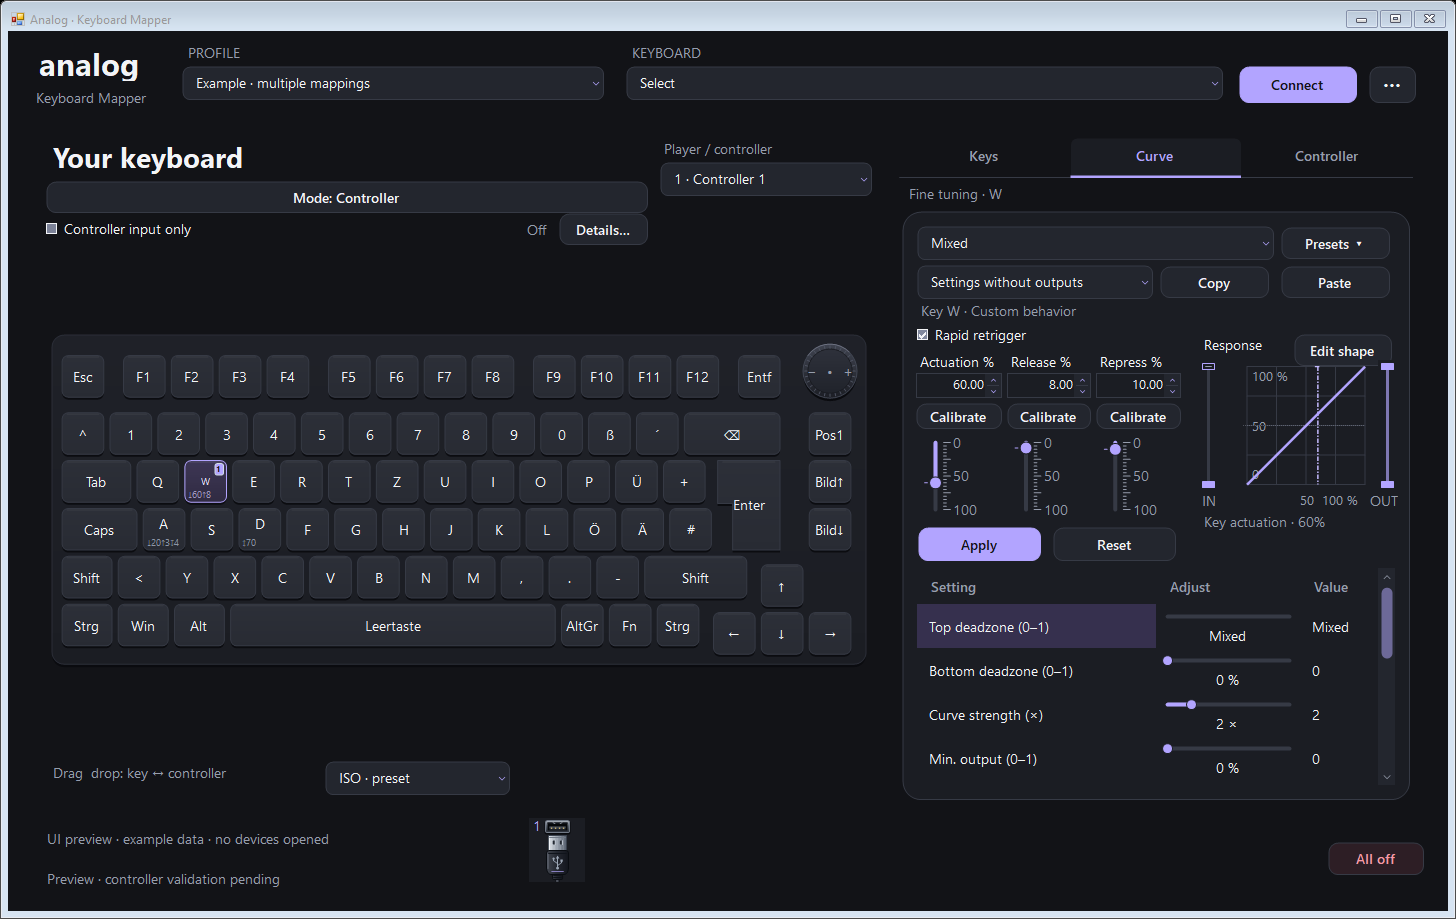
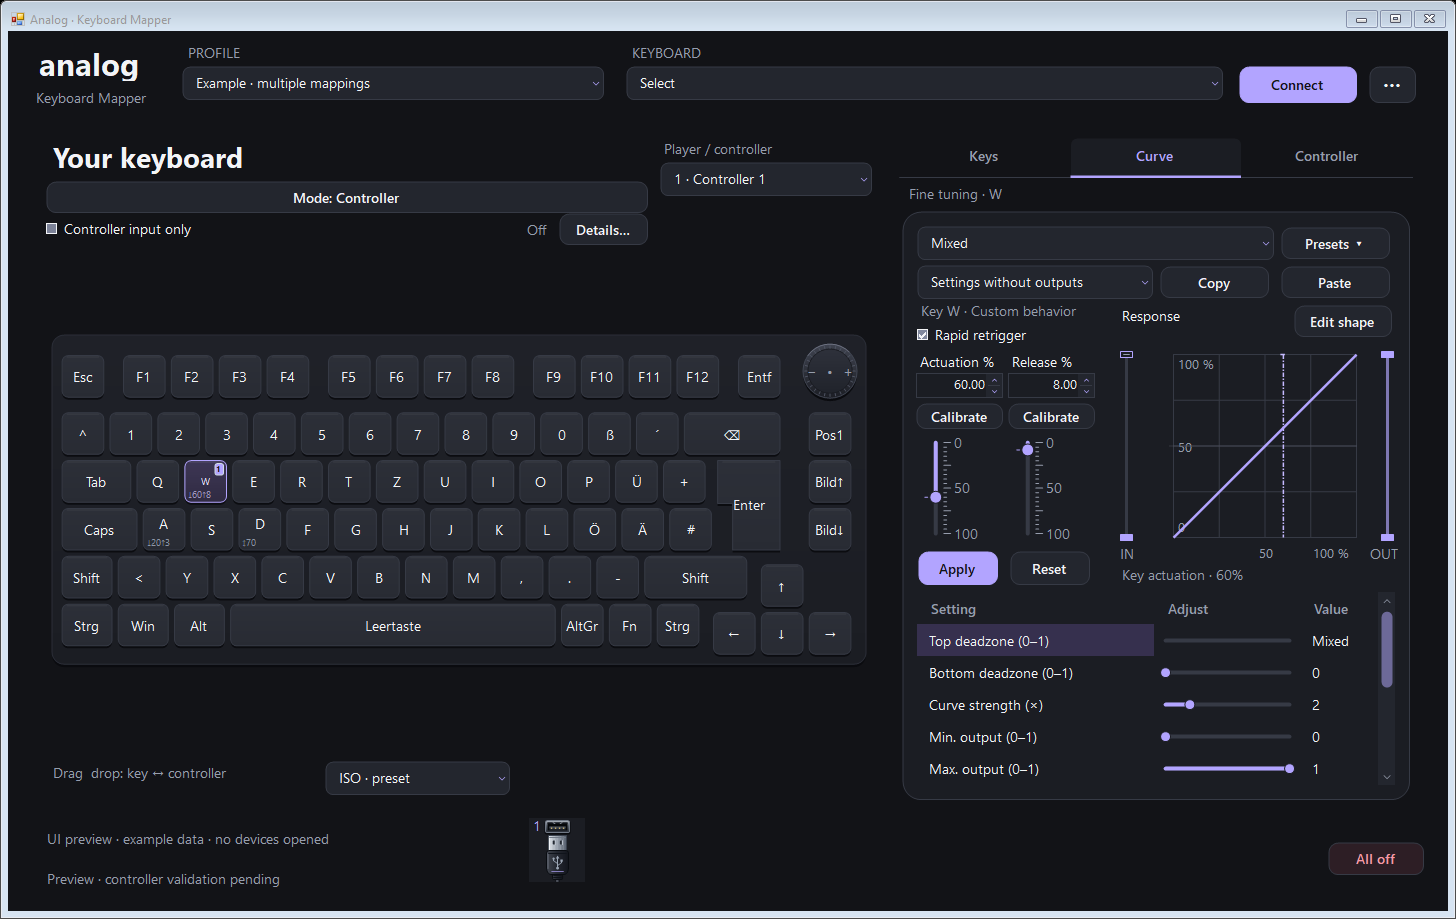
Refresh rc8 screenshots and record verified editor behavior

Changed region(s): [[0.6181, 0.3351, 0.9581, 0.8531], [0.7727, 0.7922, 0.8963, 0.8531], [0.9272, 0.7008, 0.9581, 0.7617]]

diff --git a/docs/status.md b/docs/status.md
@@ -31,7 +31,9 @@ Profiles offer **32 output-capable slots in total**, each freely assigned to Xbo
 
 ## Recorded automated checks
 
-The completed [rc.7 editor validation](https://github.com/SirRanjid/analog-key-mapper/actions/runs/34776086015) passed all **52 offline suites**, including **12,421 application UI assertions**, **444 native theme checks** and **4,324 response-preview comparisons**. The controller-helper tests and version-checked packaging also passed. These checks use synthetic inputs and do not establish hardware or game acceptance.
+The completed [rc.8 editor validation](https://github.com/SirRanjid/analog-key-mapper/actions/runs/34778891037) passed all **54 offline suites**, including **13,806 application UI assertions**, **778 native theme checks** and **1,253 real-control precision-drag checks**. The controller-helper tests and version-checked packaging also passed. These checks use synthetic inputs and do not establish hardware or game acceptance.
+
+The rc.8 revision uses stable geometry for the larger square graph and compact settings, preserves exact slider pickup values during fine adjustments, and converts built-in shapes to editable Bezier curves without replacing preset definitions. Repress uses the actuation amount while older profile fields remain readable. Pure checks cover fitting accuracy and refused extreme conversions, relative precision and scrollbar layout boundaries. Native scrollbar checks include handle recreation, hover, focus, visibility and delayed repaint on the Windows 2022 runner; they do not establish every Windows desktop theme.
 
 The rc.7 revision moves advanced physical-key controls beside the compact response graph, exposes one shape selector, visualizes output processing and separates editable shape points from response guides. Numeric rows are updated in place to prevent reentrant cell transitions. Theme checks read control pixels immediately during native scrollbar updates; pure response checks compare the preview with the signal processor. The [release page](https://github.com/SirRanjid/analog-key-mapper/releases) identifies each exact build and its [automated validation](https://github.com/SirRanjid/analog-key-mapper/actions); the recorded results below remain tied to their stated versions.
 
@@ -59,7 +61,7 @@ The UI checks include original-size key and controller pixels, transparent conto
 
 The recorded UI revision includes 136 modifier-label checks, 66 output-summary checks and 147 SOCD-drag checks. Output summaries and selection outlines were also inspected in German and at minimum window size. A separate deterministic layout check covered 200 mixtures of all 24 controller targets in both styles, including 2,396 broad modifier labels, without creating a window or touching hardware. The background UI and visual-keyboard suites above also passed on this UI revision.
 
-The full offline command now discovers 52 suites. The initial finalization run exposed an RGB journal path-length failure; compact filenames fixed the underlying issue, with successful follow-up checks for ordinary download paths and legacy recovery. Packaging checks separately reject stale versions, changed executables, source/receipt mismatches and unlisted source files. The [GitHub workflow](https://github.com/SirRanjid/analog-key-mapper/actions/workflows/build.yml) builds both components, runs all offline suites and the Go protocol tests, then creates verified packages.
+The full offline command now discovers 54 suites. The initial finalization run exposed an RGB journal path-length failure; compact filenames fixed the underlying issue, with successful follow-up checks for ordinary download paths and legacy recovery. Packaging checks separately reject stale versions, changed executables, source/receipt mismatches and unlisted source files. The [GitHub workflow](https://github.com/SirRanjid/analog-key-mapper/actions/workflows/build.yml) builds both components, runs all offline suites and the Go protocol tests, then creates verified packages.
 
 These targeted runs use no real keyboard/controller and do not perform a complete native OLE drag. They do not establish that every suite in `Test-All.ps1` passed on every machine. A blocked or failed test must be reported as such.
 

diff --git a/README.md b/README.md
@@ -56,9 +56,9 @@ Actuation and Rapid Trigger controls, each with its own Calibrate button:
 
 ![Vertical actuation and release controls with per-option calibration beside the square graph](docs/images/key-behavior.png)
 
-Response settings with sliders and a square curve editor:
+Editable preset shapes with Bézier points, range handles and compact settings:
 
-![Response sliders and square curve editor beside the keyboard](docs/images/response-curve.png)
+![Editable Bézier preset shape with vertical ranges and compact settings beside the keyboard](docs/images/response-curve.png)
 
 Capture an opposite key directly on the keyboard:
 
